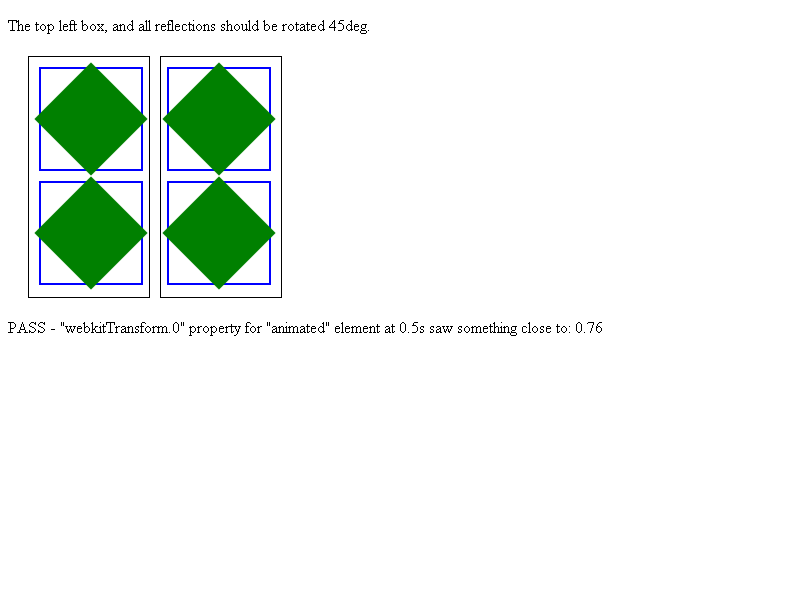
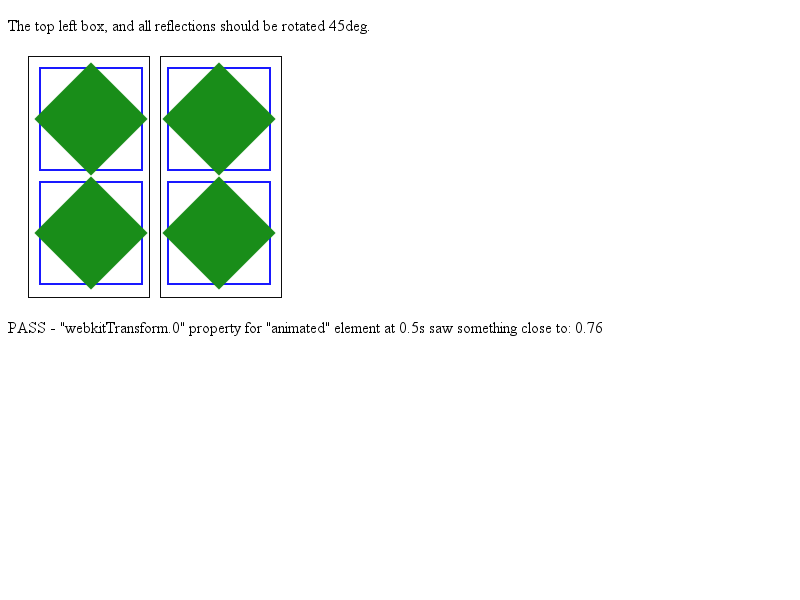
[Texmap] TextureMapperPaintOptions should keep current surface. https://bugs.webkit.org/show_bug.cgi?id=89266
Source/WebCore:

Before this patch, if a replica layer has a descendant replica child, the child
layer does not render the result in the parent layer's surface because
TextureMapperPaintOptions does not keep current surface.
This patch amends that TextureMapperPaintOptions keeps current surface before
calling paintSelfAndChildrenWithReplica recursively, so previous surface could be
restored after paintSelfAndChildrenWithReplica.

Patch by Huang Dongsung <luxtella@company100.net> on 2012-06-25
Reviewed by Noam Rosenthal.

Test: compositing/reflections/animation-inside-reflection.html

* platform/graphics/texmap/TextureMapperLayer.cpp:
(WebCore::TextureMapperLayer::paintRecursive):

LayoutTests:

Add a opacity property to two div layers in animation-insiVde-reflection
test.
Texmap has a bug when a transparent reflection layer has another
transparent reflection layer, so two reflection layer in
animation-inside-reflection test have opacity in order to cover Texmap's
bug.

Patch by Huang Dongsung <luxtella@company100.net> on 2012-06-25
Reviewed by Noam Rosenthal.

* compositing/reflections/animation-inside-reflection.html:
* platform/chromium-linux/compositing/reflections/animation-inside-reflection-expected.png:
* platform/chromium-mac-leopard/compositing/reflections/animation-inside-reflection-expected.png:
* platform/chromium-mac-snowleopard/compositing/reflections/animation-inside-reflection-expected.png:
[…]

diff --git a/LayoutTests/compositing/reflections/animation-inside-reflection.html b/LayoutTests/compositing/reflections/animation-inside-reflection.html
@@ -9,6 +9,7 @@
     margin: 20px;
     border: 1px solid black;
     -webkit-box-reflect: right 10px;
+    opacity:0.95;
   }
   
   .inner {
@@ -19,6 +20,7 @@
     font-size: 50pt;
     border: 2px solid blue;
     -webkit-box-reflect: below 10px;
+    opacity:0.95;
   }
   
   #animated {

diff --git a/Source/WebCore/platform/graphics/texmap/TextureMapperLayer.cpp b/Source/WebCore/platform/graphics/texmap/TextureMapperLayer.cpp
@@ -351,9 +351,6 @@ void TextureMapperLayer::paintRecursive(const TextureMapperPaintOptions& options
 
     TextureMapperPaintOptions paintOptions(options);
     paintOptions.mask = maskTexture.get();
-    IntRect surfaceRect;
-
-    RefPtr<BitmapTexture> surface;
 
     if (!shouldPaintToIntermediateSurface()) {
         paintOptions.opacity = opacity;
@@ -363,8 +360,9 @@ void TextureMapperLayer::paintRecursive(const TextureMapperPaintOptions& options
 
     // Prepare a surface to paint into.
     // We paint into the surface ignoring the opacity/transform of the current layer.
-    surfaceRect = intermediateSurfaceRect();
-    surface = options.textureMapper->acquireTextureFromPool(surfaceRect.size());
+    IntRect surfaceRect = intermediateSurfaceRect();
+    RefPtr<BitmapTexture> surface = options.textureMapper->acquireTextureFromPool(surfaceRect.size());
+    paintOptions.surface = surface;
     options.textureMapper->bindSurface(surface.get());
     paintOptions.opacity = 1;
 
